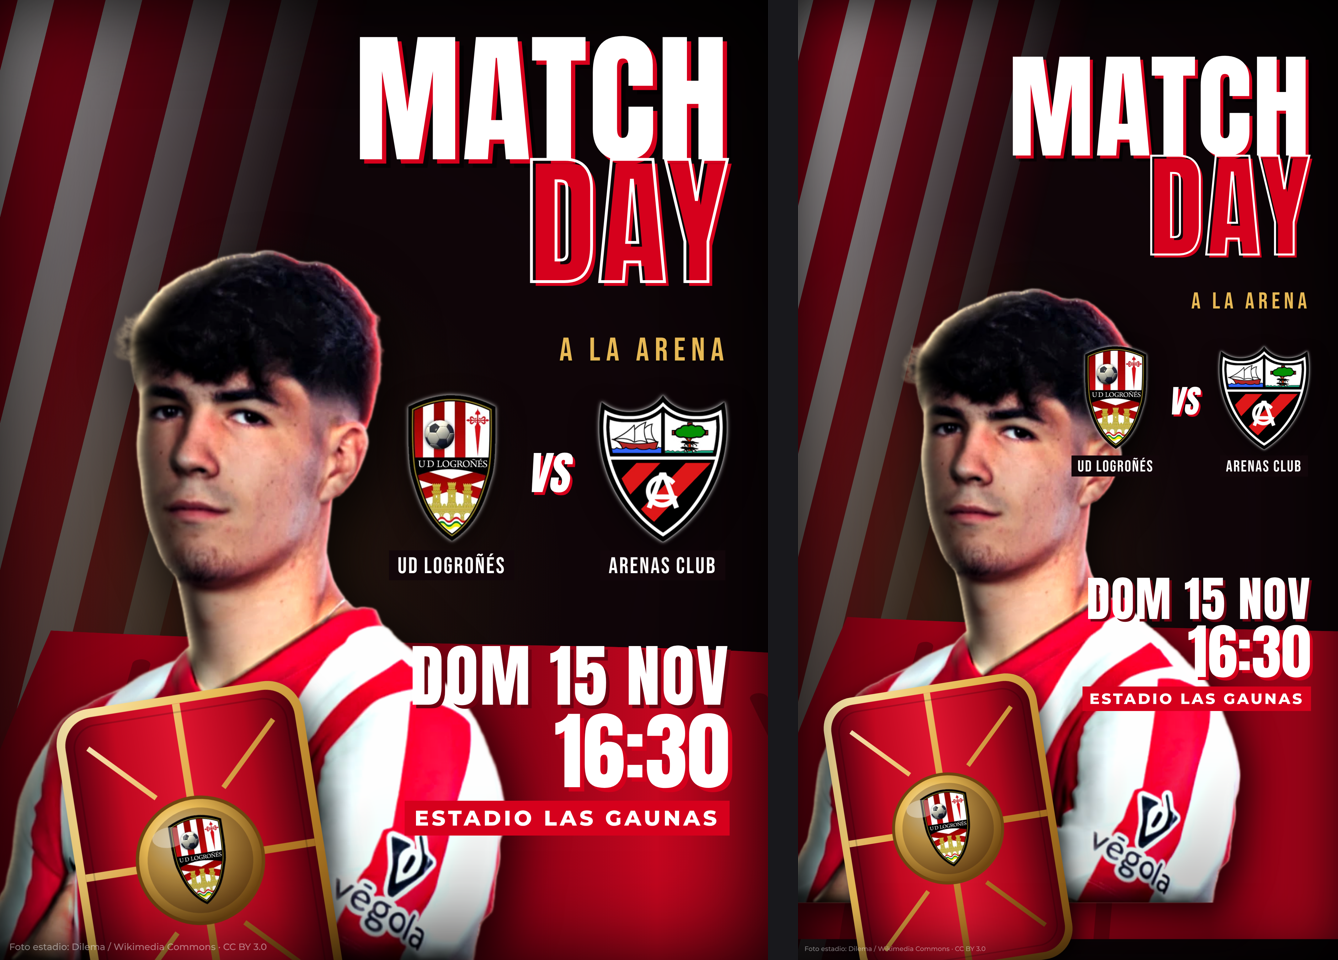
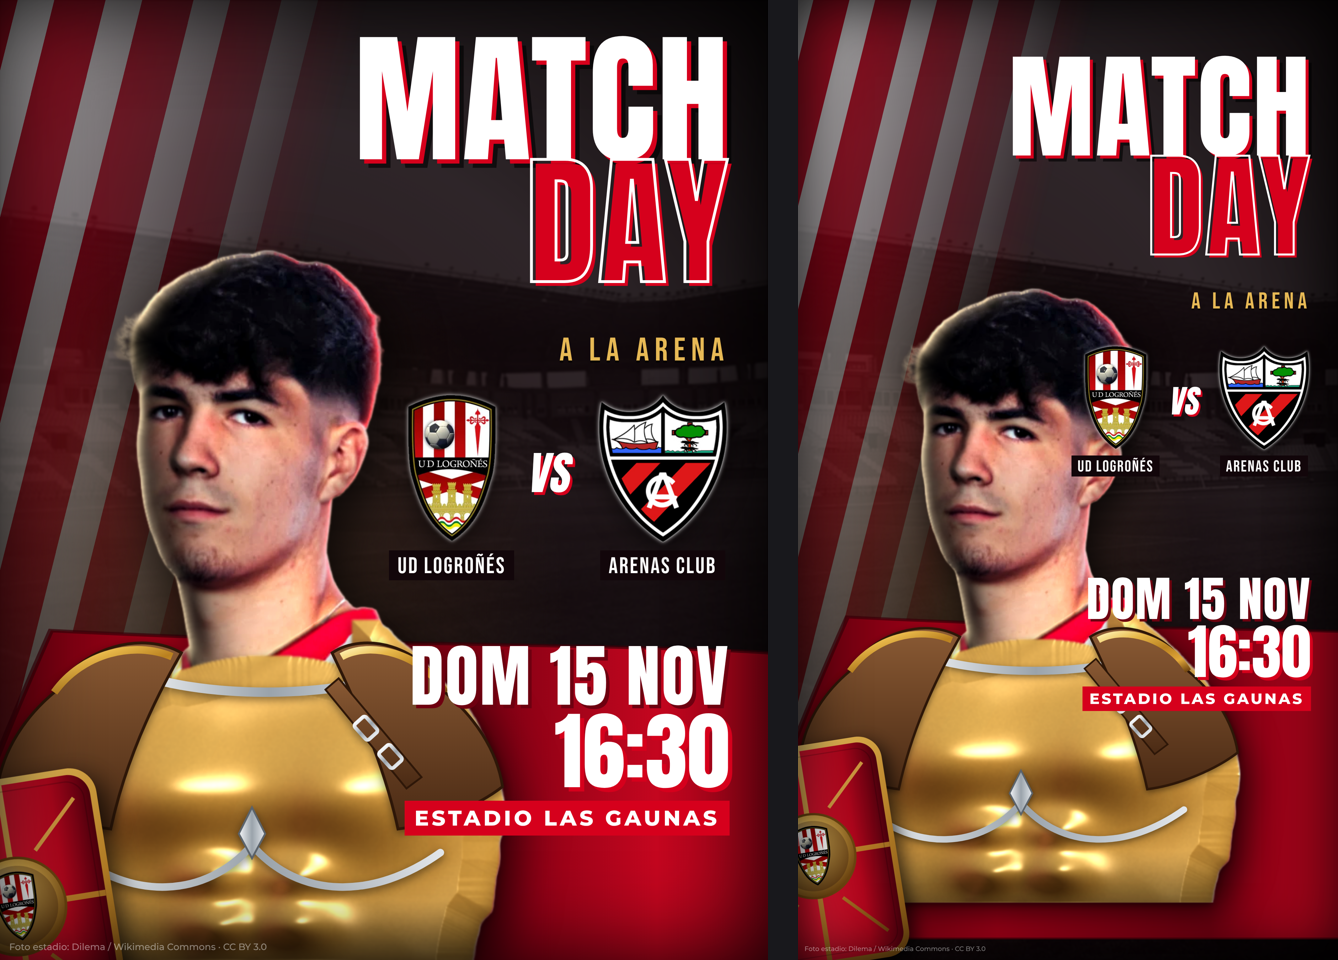
Logroñés vs Arenas: foto de Las Gaunas de fondo y coraza de gladiador original
Claude-Session: https://claude.ai/code/session_01Q54DXVH7GopsR3mpjPBNRA

diff --git a/miniaturero/salida/2026-11-15_logrones-arenas/proyecto/poster.html b/miniaturero/salida/2026-11-15_logrones-arenas/proyecto/poster.html
@@ -38,11 +38,12 @@
   .capa { left: -10%; top: 50%; width: 230%; height: 56%; }
   .jugador { left: 0; top: 0; width: 100%; height: 100%;
     filter: drop-shadow(0 0 1px rgba(255,220,180,.5)) drop-shadow(16px 22px 34px rgba(0,0,0,.75)); }
+  .armadura { left: 0; top: 0; width: 100%; height: 100%; filter: drop-shadow(0 4px 6px rgba(0,0,0,.45)); }
   .broche { width: 6%; aspect-ratio: 1; top: 61.5%; border-radius: 50%;
     background: radial-gradient(circle at 35% 30%, #fff3c4 0%, var(--oro) 40%, var(--oro-osc) 100%);
     box-shadow: 0 2px 4px rgba(0,0,0,.6), inset 0 0 0 2px rgba(90,50,10,.6); }
   .broche.izq { left: 9%; } .broche.der { right: 7%; }
-  .escudo-romano { left: 16%; top: 62%; width: 54%; height: 48%; transform: rotate(-9deg); transform-origin: 50% 50%;
+  .escudo-romano { left: -12%; top: 74%; width: 42%; height: 37%; transform: rotate(-9deg); transform-origin: 50% 50%;
     filter: drop-shadow(10px 14px 18px rgba(0,0,0,.7)); }
 
   /* título */
@@ -76,7 +77,7 @@
     .equipos { top: 36%; }
     .gladiador { height: 64%; bottom: 6%; }
     .pie { top: 60%; }
-    .escudo-romano { left: 12%; width: 50%; top: 64%; }
+    .escudo-romano { left: -12%; width: 40%; top: 74%; }
   }
 </style>
 </head>
@@ -115,6 +116,8 @@
       <use href="#tela-forma" fill="none" stroke="#3a0008" stroke-width="4" stroke-opacity=".7"/>
     </svg>
     <img class="jugador" src="img/anai_iluminado.png" alt="Anai Morales">
+    <img class="armadura" src="img/coraza.png" alt="">
+    <img class="armadura" src="img/armadura.svg" alt="">
     <!-- escudo romano (scutum) dibujado con código, con el escudo del Logroñés -->
     <svg class="escudo-romano" viewBox="0 0 300 400">
       <defs>

diff --git a/miniaturero/salida/2026-11-15_logrones-arenas/proyecto/hacer_coraza.py b/miniaturero/salida/2026-11-15_logrones-arenas/proyecto/hacer_coraza.py
@@ -1,0 +1,40 @@
+"""Coraza dorada que sigue la silueta y el relieve del torso del jugador (diseño original, todo con código)."""
+import sys, cv2, numpy as np
+from PIL import Image
+sys.path.insert(0, 'herramientas'); import mini
+D = 'salida/2026-11-15_logrones-arenas/proyecto/img/'
+im = np.array(Image.open(D + 'anai.png').convert('RGBA')); h, w = im.shape[:2]
+a = im[..., 3].astype(np.float32) / 255
+yy, xx = np.mgrid[0:h, 0:w].astype(np.float32)
+# escote en U alrededor del cuello
+cuello = np.minimum(430 + 0.0018 * (xx - 318) ** 2, 455)
+cuello = np.where((xx < 225) | (xx > 405), 392, cuello)
+m = ((yy > cuello) & (a > .5)).astype(np.float32)
+m = cv2.GaussianBlur(m, (0, 0), 1.2)
+# relieve: profundidad del torso + músculos esculpidos (pectorales, abdominales)
+d = mini.profundidad(im[..., :3]); lo, hi = np.percentile(d[m > .5], [2, 98]); d = np.clip((d - lo) / (hi - lo), 0, 1)
+d = cv2.GaussianBlur(d, (0, 0), 6)
+def bulto(cx, cy, rx, ry, k): return k * np.exp(-(((xx - cx) / rx) ** 2 + ((yy - cy) / ry) ** 2))
+musc = (bulto(210, 575, 95, 60, 1.0) + bulto(395, 575, 95, 60, 1.0)
+        + sum(bulto(cx, cy, 38, 24, .55) for cx in (258, 345) for cy in (665, 715)))
+dist = cv2.distanceTransform((m > .5).astype(np.uint8), cv2.DIST_L2, 5)
+z = (d * 0.6 + musc + np.clip(dist / 40, 0, 1) * .35).astype(np.float32)
+gx = cv2.Sobel(z, cv2.CV_32F, 1, 0, ksize=5); gy = cv2.Sobel(z, cv2.CV_32F, 0, 1, ksize=5)
+esc = 0.7 / (np.median(np.hypot(gx, gy)[m > .5]) + 1e-6); gx *= esc; gy *= esc
+N = np.dstack([-gx, -gy, np.ones_like(gx)]); N /= np.linalg.norm(N, axis=2, keepdims=True)
+L = np.array([.5, -.55, .67]); L /= np.linalg.norm(L)           # mismo foco que el jugador (derecha-arriba)
+dif = np.clip(N @ L, 0, 1)
+H = L + [0, 0, 1]; H /= np.linalg.norm(H); spec = np.clip(N @ H, 0, 1) ** 30
+env = np.clip(N[..., 1] * -.5 + .5, 0, 1)                        # reflejo del entorno: cielo claro arriba, suelo oscuro
+oro_osc, oro, oro_cla = np.array([.36, .2, .04]), np.array([.86, .6, .2]), np.array([1, .93, .62])
+col = oro_osc + (oro - oro_osc) * dif[..., None] ** .9
+col = col + (oro_cla - col) * (env[..., None] * .35)
+col = col + spec[..., None] * np.array([1, .95, .8]) * .9
+rim = np.clip(-N[..., 0], 0, 1) ** 2 * .5                         # contraluz rojo por la izquierda
+col = 1 - (1 - col) * (1 - rim[..., None] * np.array([1, .2, .15]))
+ruido = cv2.GaussianBlur(np.random.default_rng(3).random((h, w)).astype(np.float32), (0, 0), 1.2)
+col *= (0.96 + 0.08 * ruido)[..., None]                             # metal algo gastado
+col *= (1 - np.clip((yy - 690) / 64, 0, 1) * .45)[..., None]      # se funde un poco en sombra abajo
+out = (np.clip(col, 0, 1) * 255).astype(np.uint8)
+Image.fromarray(np.dstack([out, (m * im[..., 3] / 255 * 255).astype(np.uint8)])).save(D + 'coraza.png')
+print('ok')

diff --git a/miniaturero/salida/2026-11-15_logrones-arenas/notas.md b/miniaturero/salida/2026-11-15_logrones-arenas/notas.md
@@ -6,6 +6,8 @@
 - **Gladiador:** no hay generación de imágenes con IA, así que es un montaje gráfico. Capa roja detrás de los hombros y escudo romano (scutum) delante, ambos **dibujados desde cero con código** (diseño original), con el escudo del Logroñés en el centro.
 - **Escudos de los clubes:** aportados por el usuario (`entrada/escudo_arenas.png`, ya transparente; el del Logroñés, del póster anterior).
 - **Fondo del estadio:** foto "Estadio Las Gaunas.JPG" de Wikimedia Commons, autor **Dilema**, licencia **CC BY 3.0 / GFDL 1.2** → crédito pequeño abajo a la izquierda. Muy poca opacidad (16 %), en escala de grises, desenfocada y teñida de rojo para que no moleste.
+- **Foto del estadio (11/11):** aportada por el usuario (`entrada/las_gaunas.webp`). Es la misma vista que la foto de Wikimedia Commons de "Dilema" (CC BY 3.0), así que se mantiene el crédito.
+- **Armadura (11/11):** la referencia del usuario (`entrada/armadura_referencia.webp`) es una vista previa de banco de imágenes (Dreamstime) con marca de agua: **no se usa** (no está licenciada y no se quitan marcas de agua). En su lugar, coraza **original** hecha con código: `proyecto/hacer_coraza.py` genera el metal dorado siguiendo la silueta y el relieve del torso (Depth Anything + pectorales/abdominales esculpidos, mismo foco que el jugador, brillos, contraluz rojo) y `img/armadura.svg` añade ribetes plateados, hombreras de cuero y correa con hebillas. El escudo romano pasa a la esquina inferior izquierda para que se vea la coraza.
 - **Fuentes:** Anton, Bebas Neue y Montserrat (SIL OFL).
 - **Revisión:** 1) capa casi invisible, broches flotando, el escudo romano chocaba con la fecha → fecha a la columna derecha, broches fuera, capa que ondea hacia la derecha; 2) capa plana → pliegues con luces y sombras; 3) en 9:16 el escudo romano rozaba el "16:30" → recolocado.
 
